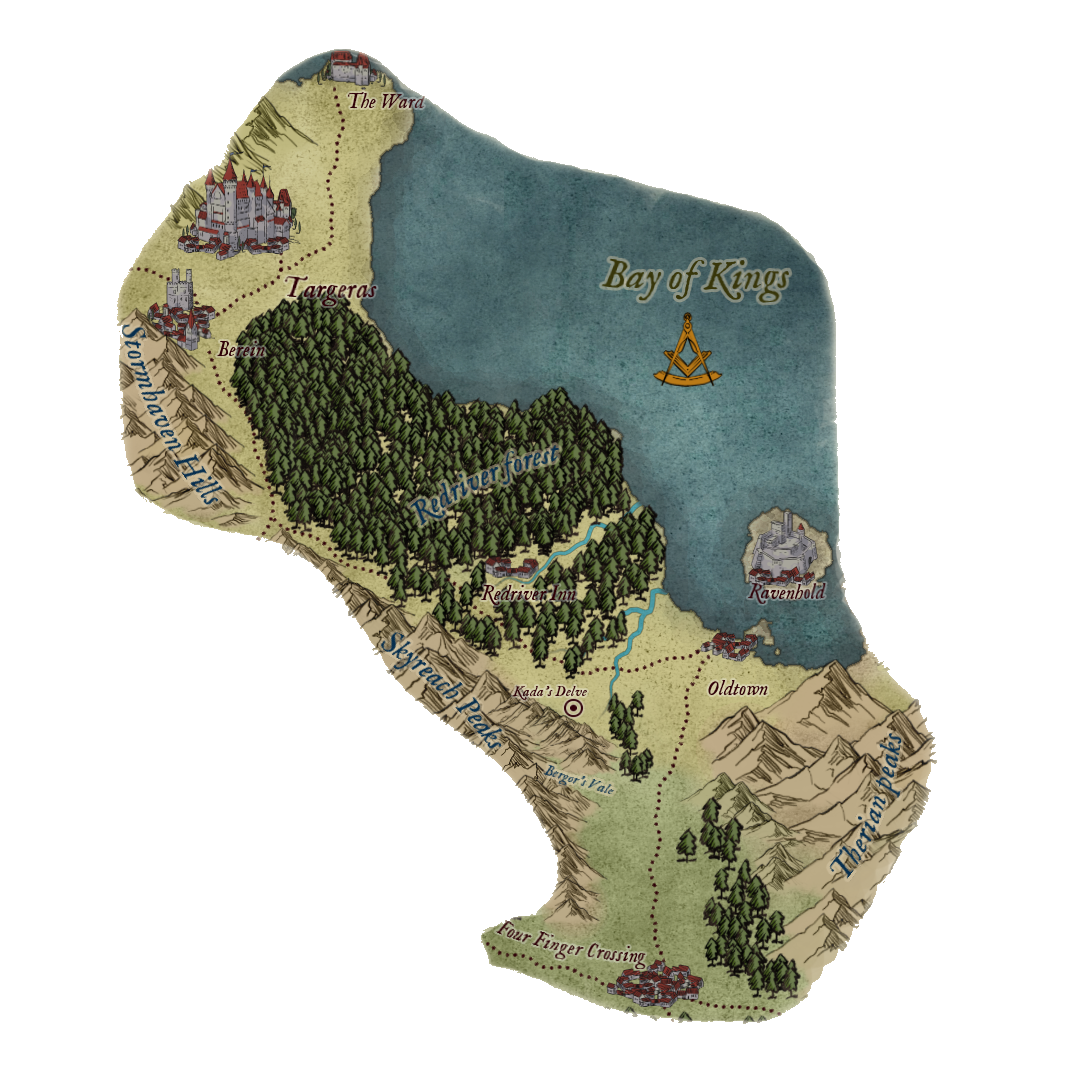
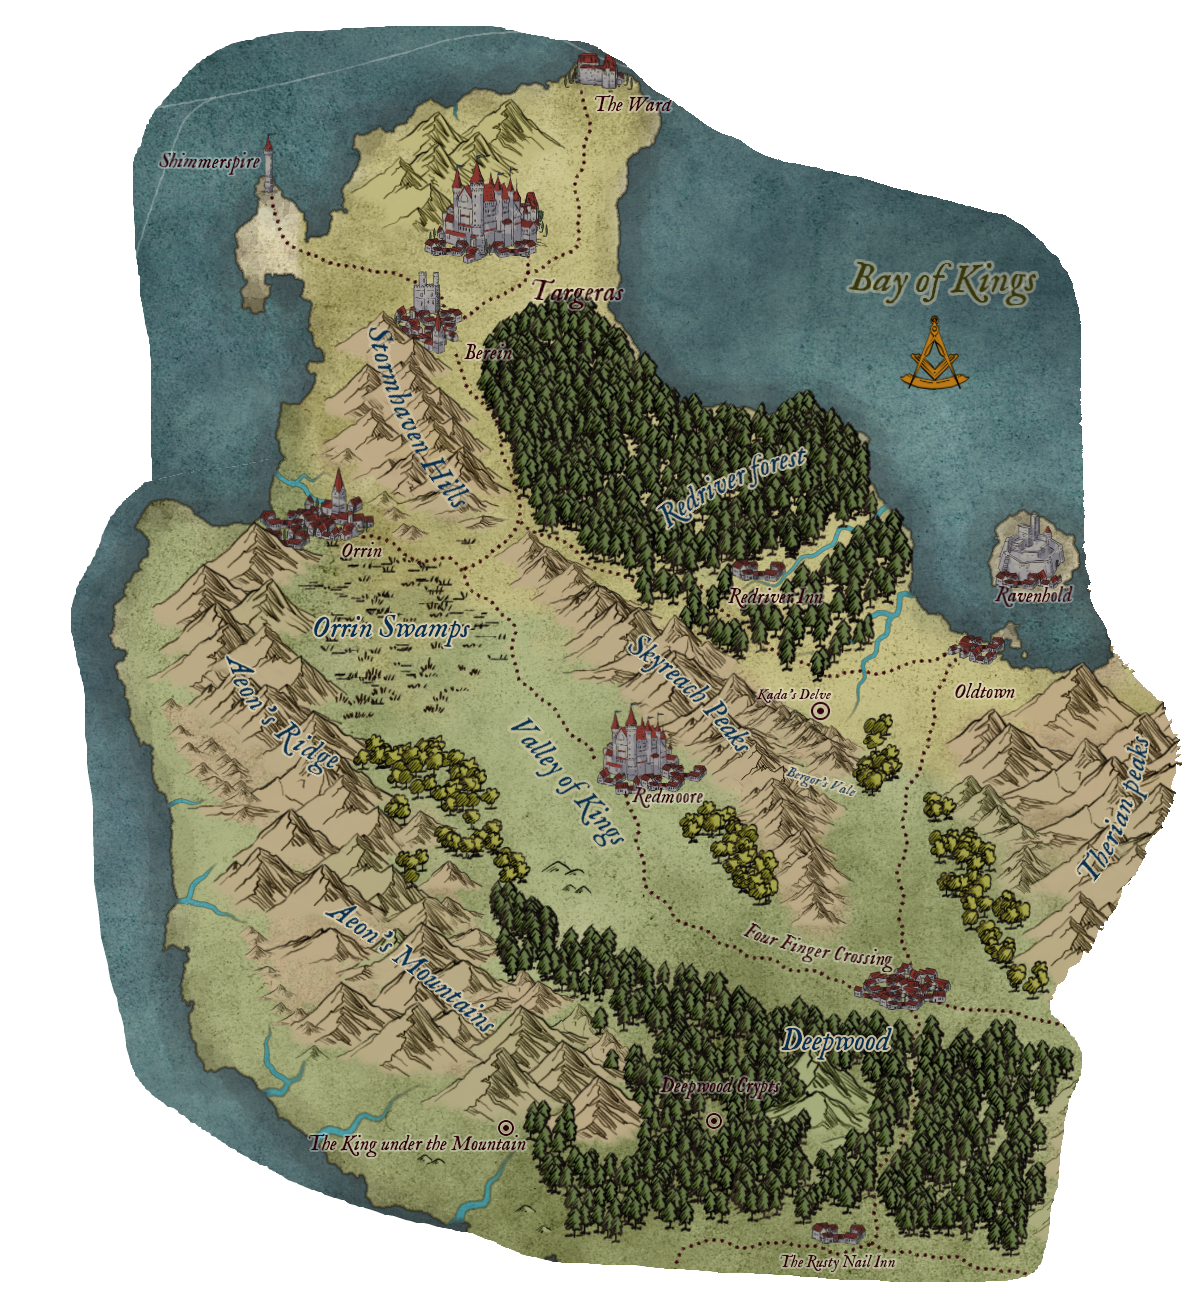
Site updated: 2019-01-06 09:21:12

diff --git a/tookania/index.html b/tookania/index.html
@@ -1,1 +1,1 @@
-<html><head><meta charset="utf-8"/><title>Tookania | The Great Awakening</title><meta name="viewport" content="width=device-width, initial-scale=1, maximum-scale=1"/><link href="//fonts.googleapis.com/css?family=Source+Code+Pro" rel="stylesheet" type="text/css"/><link rel="stylesheet" href="/the-great-awakening/css/index.css"></head><body><header><div class="title">The Great Awakening</div><nav><div class="h3"><a href="/the-great-awakening/">Home</a></div><div class="h3"><a href="/the-great-awakening/plimorn-diary">Plimorn's diary</a></div><div class="h3"><a href="/the-great-awakening/tookania">Tookania</a></div><div class="h3"><a href="/the-great-awakening/prices">Prices</a></div><div class="h3"><a href="/the-great-awakening/characters">Characters</a></div><div class="h3"><a href="/the-great-awakening/help">Help</a></div></nav></header><div class="phb"><h2>Tookania</h2><p>Below is a map of land known to our adventurers, complete with list of towns and locations they visited. Clicking on location's name will bring you to detailed description of it.</p><img class="img-center" src="Tookania.png" alt="Map of Tookania" usemap="#tookania"/><map name="tookania"><area shape="circle" coords="729,643,26" href="/location/oldtown" alt="Oldtown"/></map><h3 class="h3"><a href="/the-great-awakening/location/oldtown/">Oldtown</a></h3><p>Sleepy town at southern end of Bay of Kings, most commonly used as shipping port of nearby Four Finger Crossing. </p><h3 class="h3"><a href="/the-great-awakening/location/redriver_inn/">Redriver Inn</a></h3><p>Small town hiding next to Redriver, main woodcutting centre in region and only source of finest Redriver pine wood.</p><h3 class="h3"><a href="/the-great-awakening/location/four_finger_crossing/">Four Finger Crossing</a></h3><p>Big trading outpost at crossing of 2 roads. You can barely call it home and you certainly can’t call it town but regardless of what you wish to call it you can buy anything in its narrow alleyways and open markets. Really, anything; food, weapons, magic items, guides and more… shady… things. But be careful where you step and when you choose to be there, Four Finger Crossing has no law.</p></div></body></html>
+<html><head><meta charset="utf-8"/><title>Tookania | The Great Awakening</title><meta name="viewport" content="width=device-width, initial-scale=1, maximum-scale=1"/><link href="//fonts.googleapis.com/css?family=Source+Code+Pro" rel="stylesheet" type="text/css"/><link rel="stylesheet" href="/the-great-awakening/css/index.css"></head><body><header><div class="title">The Great Awakening</div><nav><div class="h3"><a href="/the-great-awakening/">Home</a></div><div class="h3"><a href="/the-great-awakening/plimorn-diary">Plimorn's diary</a></div><div class="h3"><a href="/the-great-awakening/tookania">Tookania</a></div><div class="h3"><a href="/the-great-awakening/prices">Prices</a></div><div class="h3"><a href="/the-great-awakening/characters">Characters</a></div><div class="h3"><a href="/the-great-awakening/help">Help</a></div></nav></header><div class="phb"><h2>Tookania</h2><p>Below is a map of land known to our adventurers, complete with list of towns and locations they visited. Clicking on location's name will bring you to detailed description of it.</p><img class="img-center" src="Tookania.png" alt="Map of Tookania" usemap="#tookania"/><map name="tookania"><area shape="circle" coords="729,643,26" href="/location/oldtown" alt="Oldtown"/></map><h3 class="h3"><a href="/the-great-awakening/location/oldtown/">Oldtown</a></h3><p>Sleepy town at southern end of Bay of Kings, most commonly used as shipping port of nearby Four Finger Crossing. </p><h3 class="h3"><a href="/the-great-awakening/location/redriver_inn/">Redriver Inn</a></h3><p>Small town hiding next to Redriver, main woodcutting centre in region and only source of finest Redriver pine wood.</p><h3 class="h3"><a href="/the-great-awakening/location/four_finger_crossing/">Four Finger Crossing</a></h3><p>Big trading outpost at crossing of 2 roads. You can barely call it home and you certainly can’t call it town but regardless of what you wish to call it you can buy anything in its narrow alleyways and open markets. Really, anything; food, weapons, magic items, guides and more… shady… things. But be careful where you step and when you choose to be there, Four Finger Crossing has no law.</p><h3 class="h3"><a href="/the-great-awakening/location/orrin/">Orrin</a></h3><p>Merchant town known for its trade of magical artifacts</p></div></body></html>

diff --git a/location/orrin/index.html b/location/orrin/index.html
@@ -1,0 +1,3 @@
+<html><head><meta charset="utf-8"/><title>Orrin | The Great Awakening</title><meta name="viewport" content="width=device-width, initial-scale=1, maximum-scale=1"/><link href="//fonts.googleapis.com/css?family=Source+Code+Pro" rel="stylesheet" type="text/css"/><link rel="stylesheet" href="/the-great-awakening/css/index.css"></head><body><header><div class="title">The Great Awakening</div><nav><div class="h3"><a href="/the-great-awakening/">Home</a></div><div class="h3"><a href="/the-great-awakening/plimorn-diary">Plimorn's diary</a></div><div class="h3"><a href="/the-great-awakening/tookania">Tookania</a></div><div class="h3"><a href="/the-great-awakening/prices">Prices</a></div><div class="h3"><a href="/the-great-awakening/characters">Characters</a></div><div class="h3"><a href="/the-great-awakening/help">Help</a></div></nav></header><div class="phb"><h1 id="Orrin"><a href="#Orrin" class="headerlink" title="Orrin"></a>Orrin</h1><p>Merchant town known for its trade of magical artifacts</p>
+<p><strong>Size:</strong> Medium town<br><strong>Connects to:</strong> Redmoore, Berein, Redriver Inn, Four Finger Crossing<br><strong>Has teleportation circle:</strong> YES</p>
+<p><img class="img-center" src="orrin.png" alt="map of Oldtown"></p></div></body></html>
